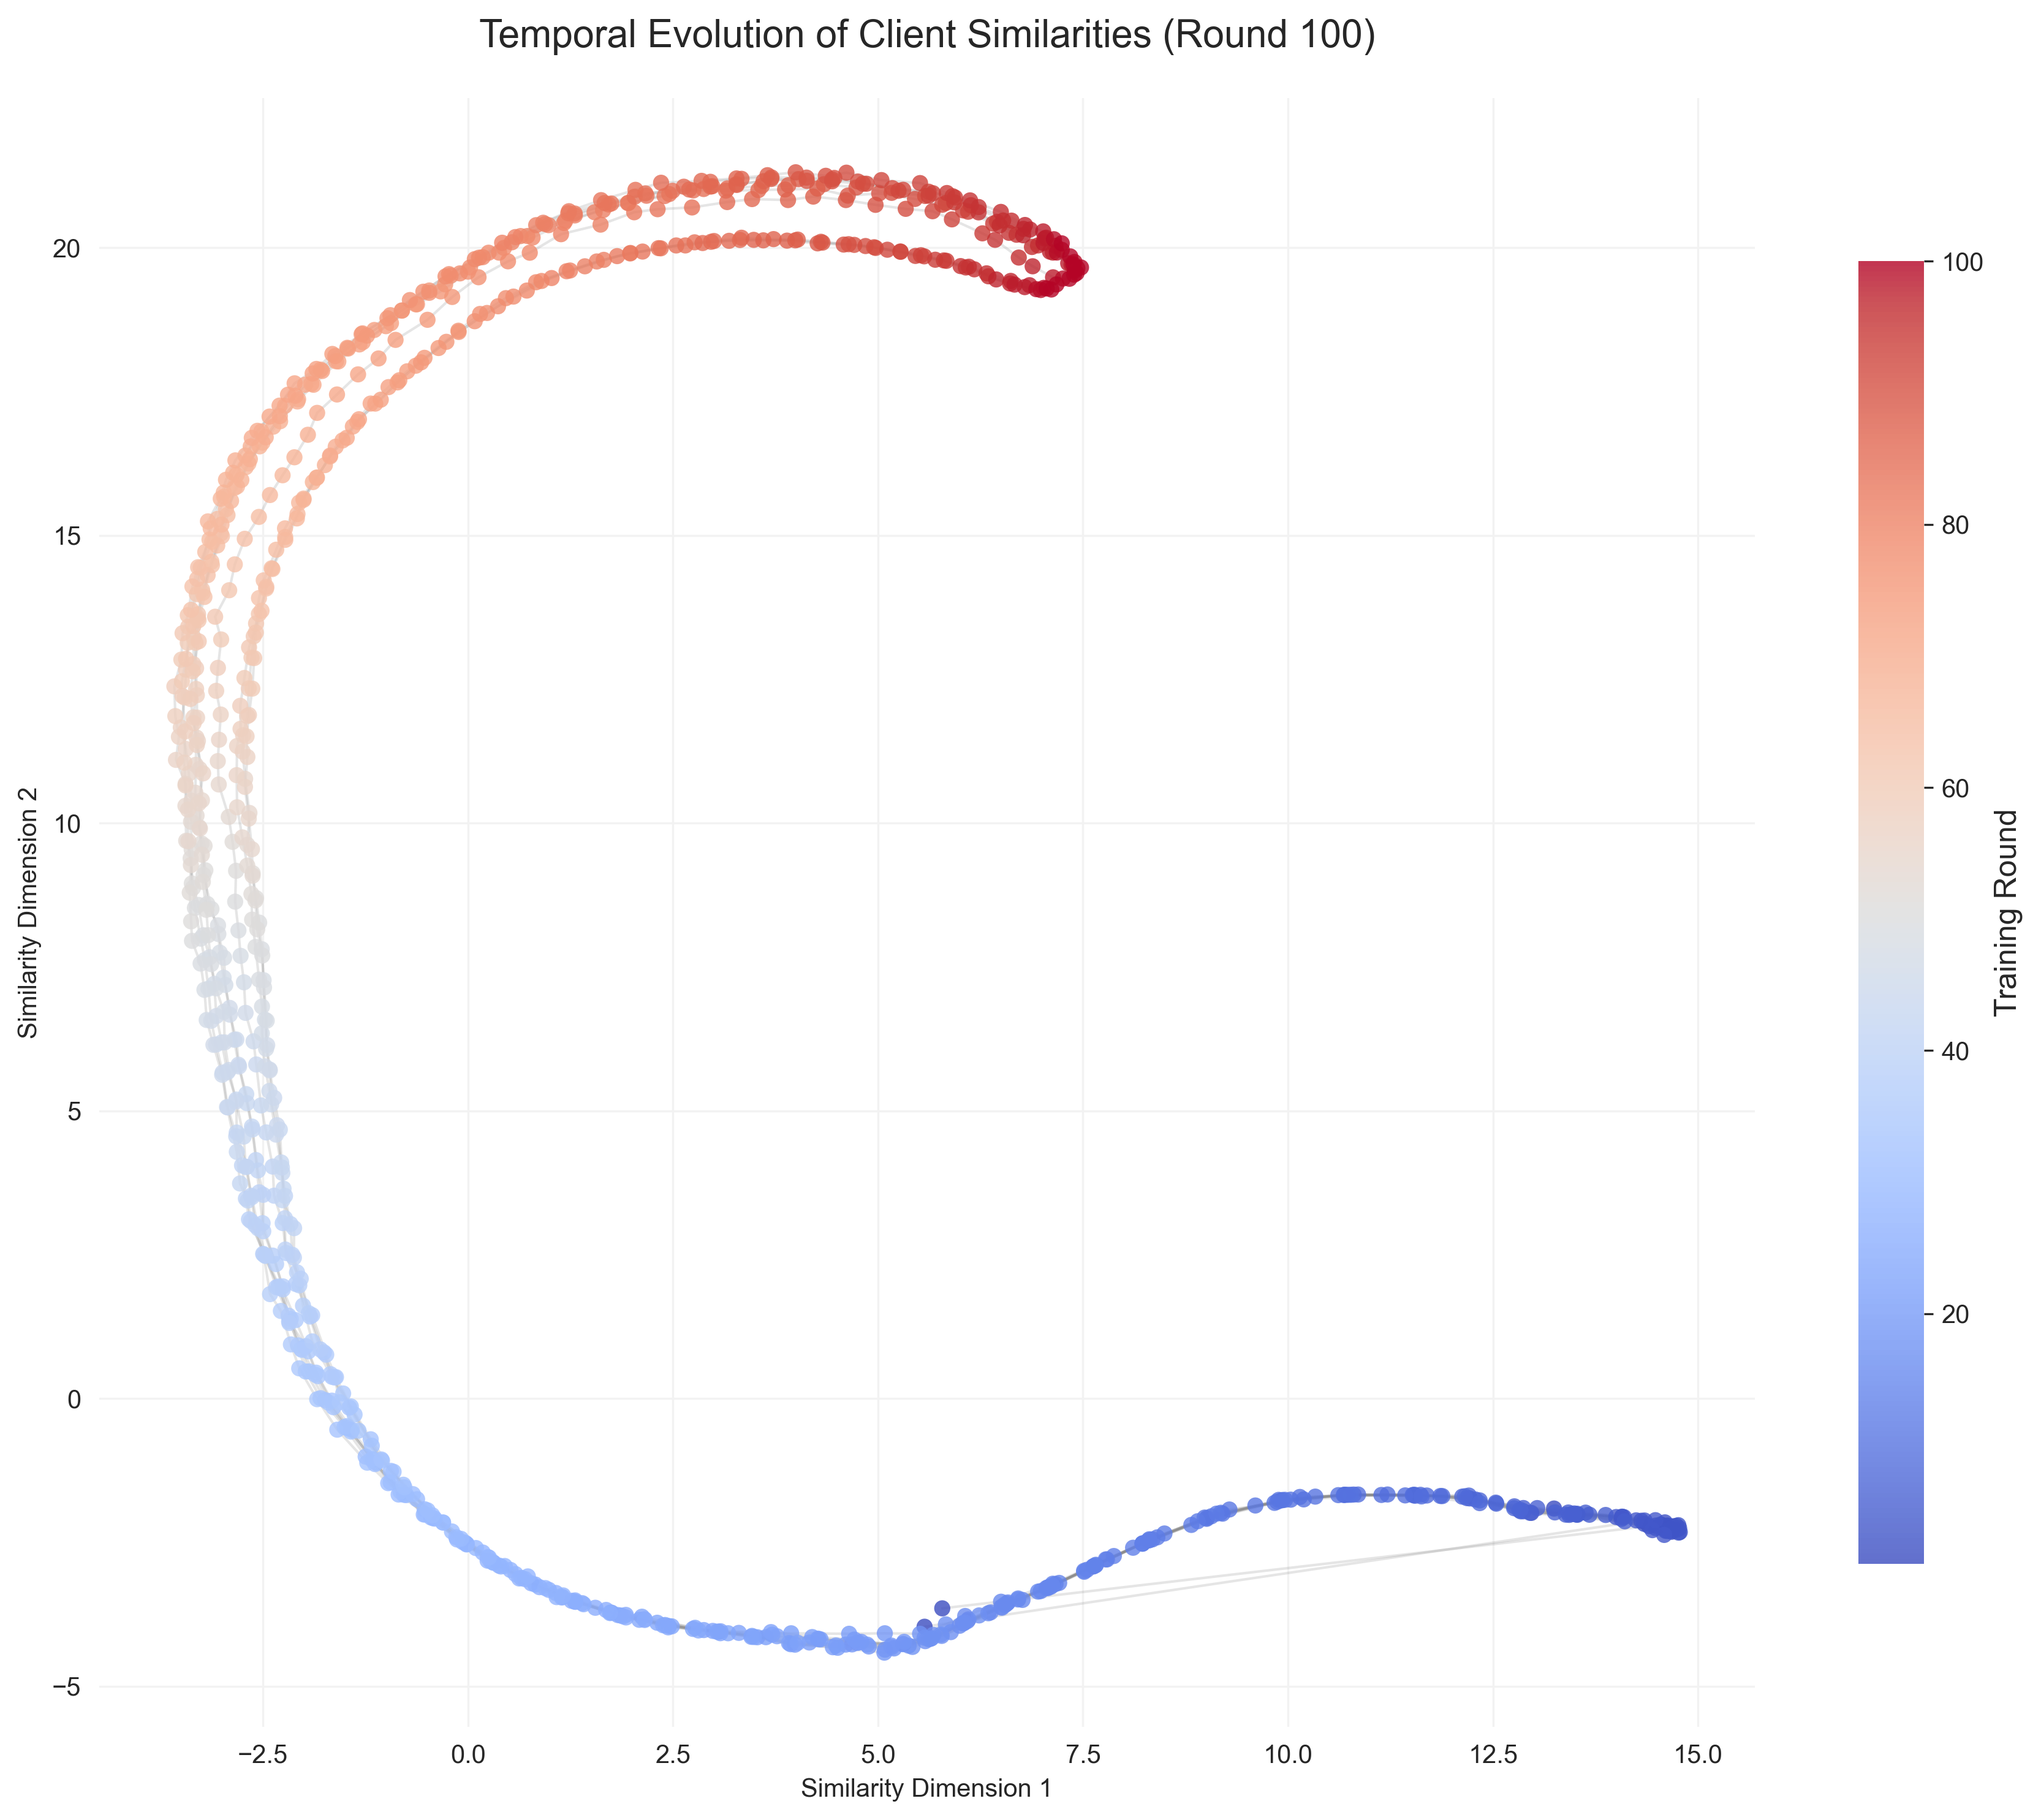
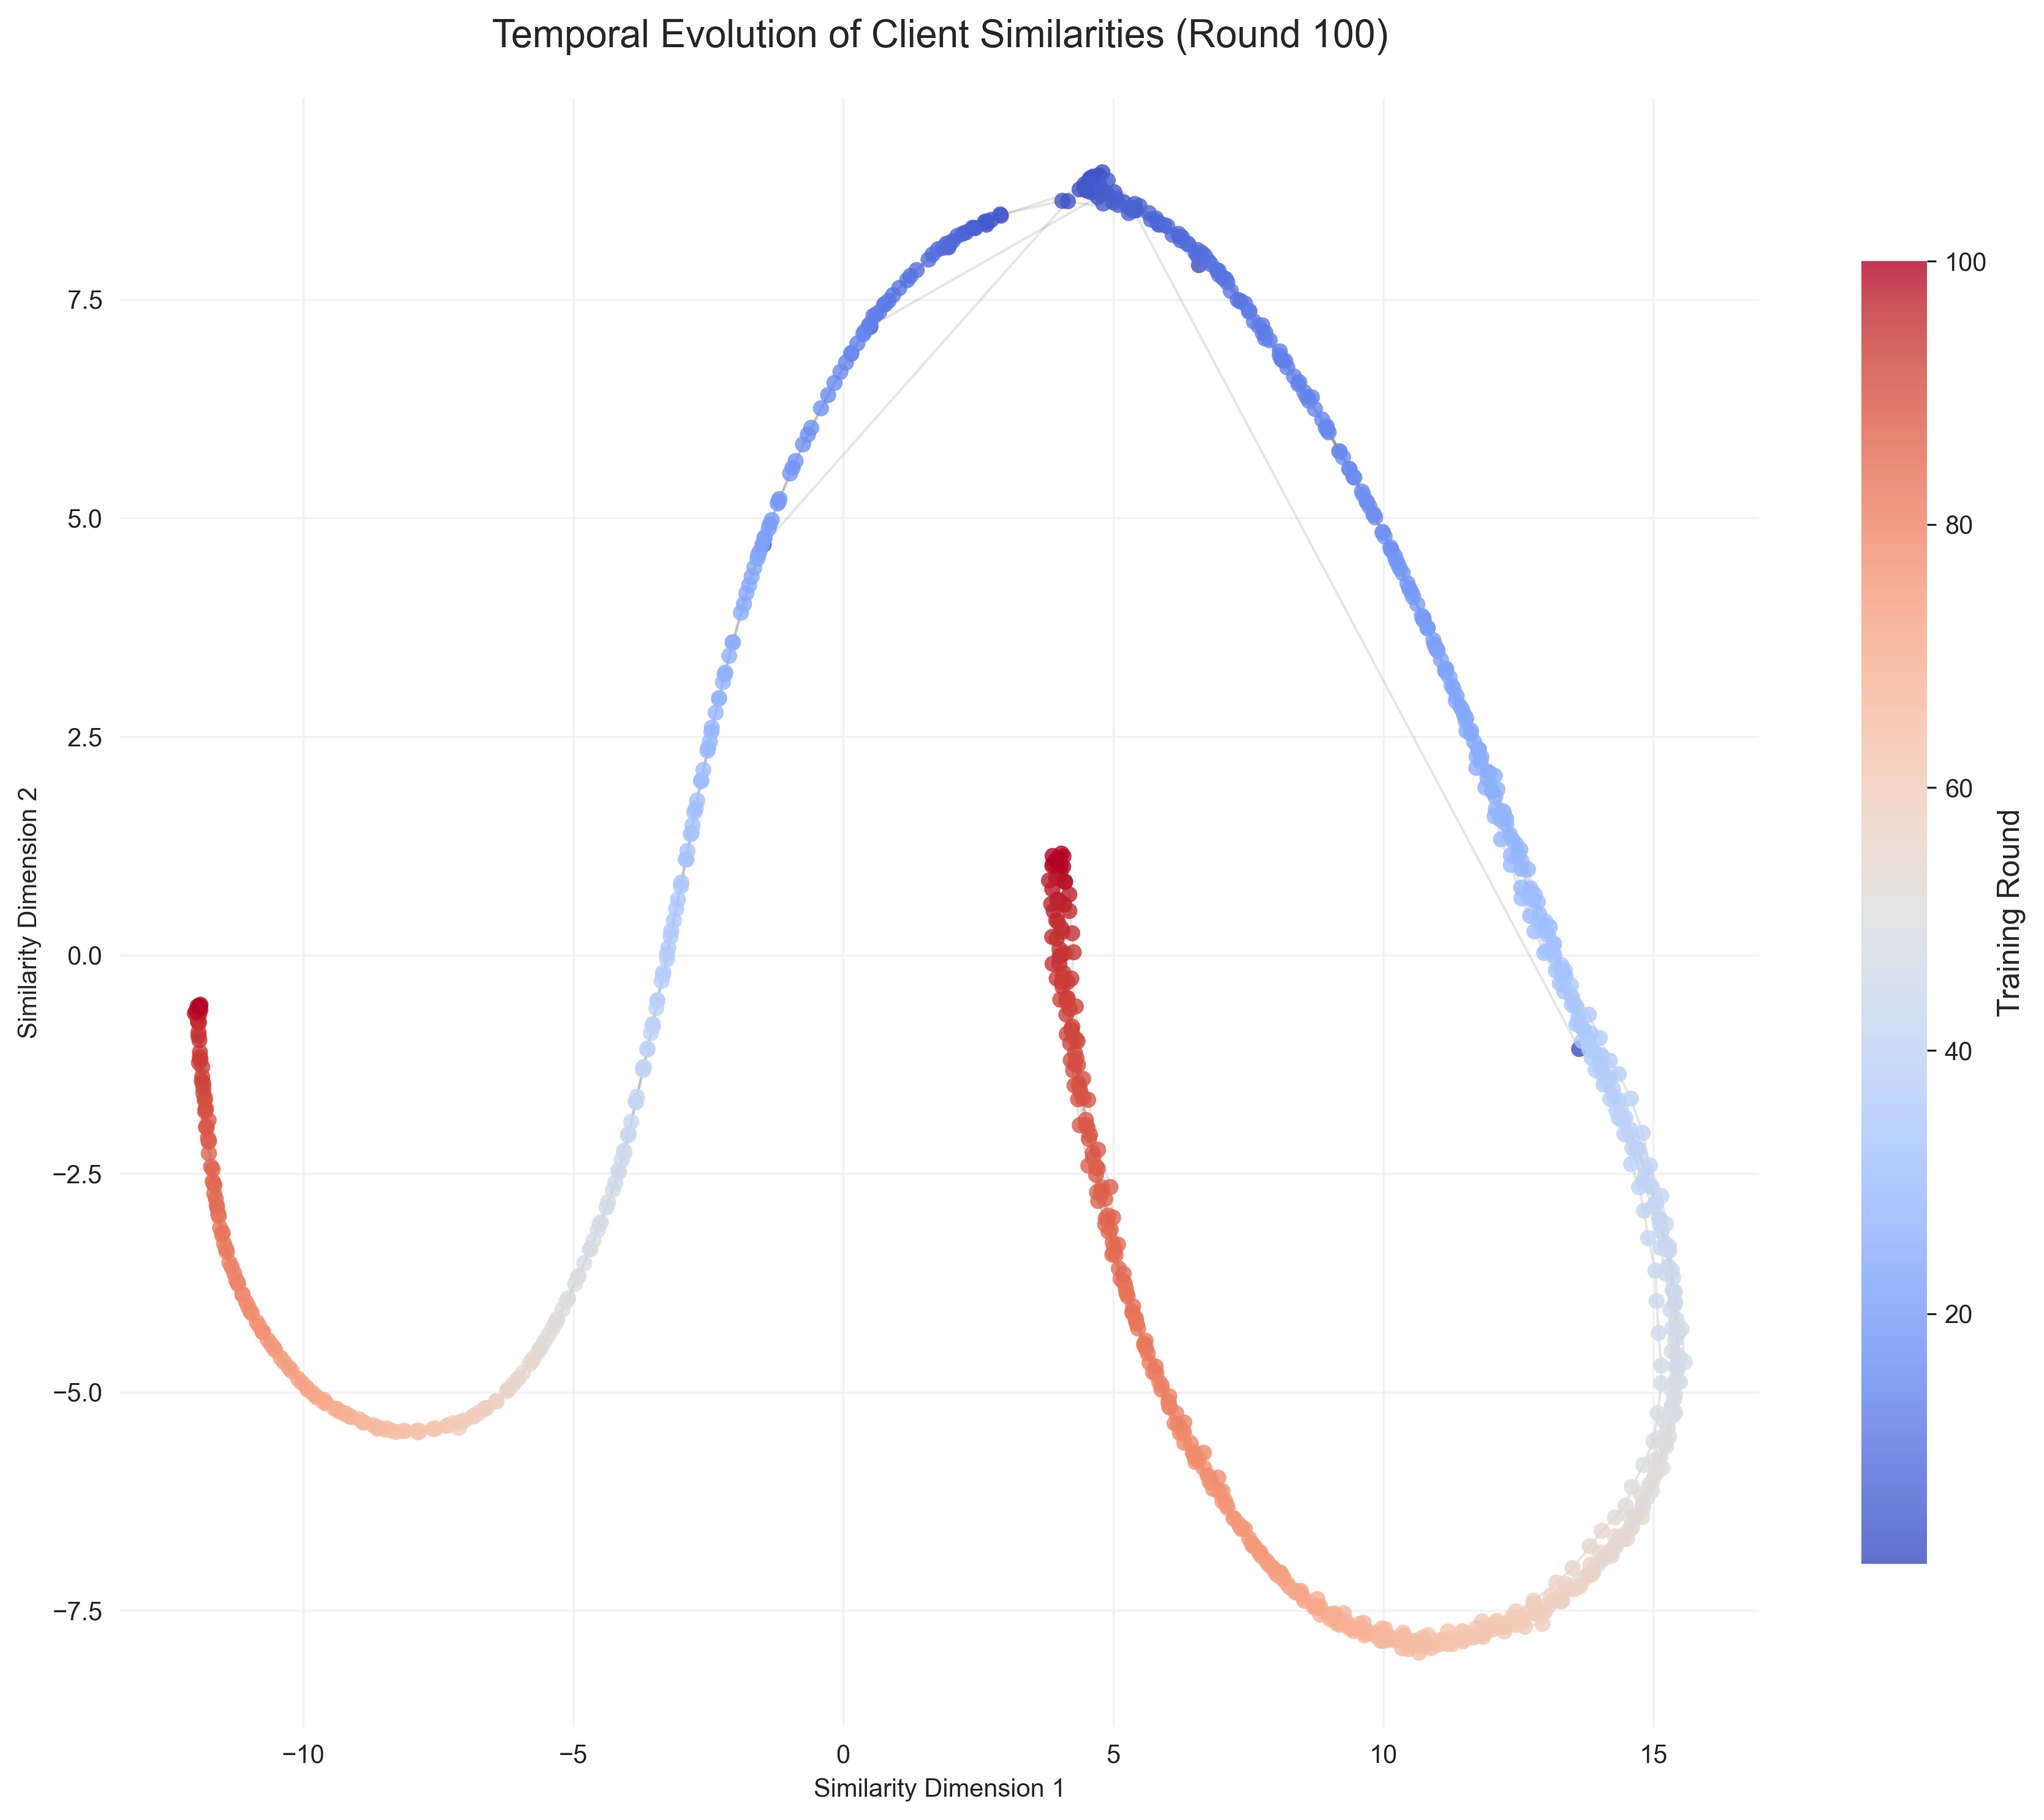
imdb

diff --git a/train.py b/train.py
@@ -8,7 +8,7 @@ args = config.args
 args.root = "dataset"
 
 
-args.dataset = ["BZR"]
+args.dataset = ["IMDB-MULTI"]
 args.num_clients = 10
 
 
